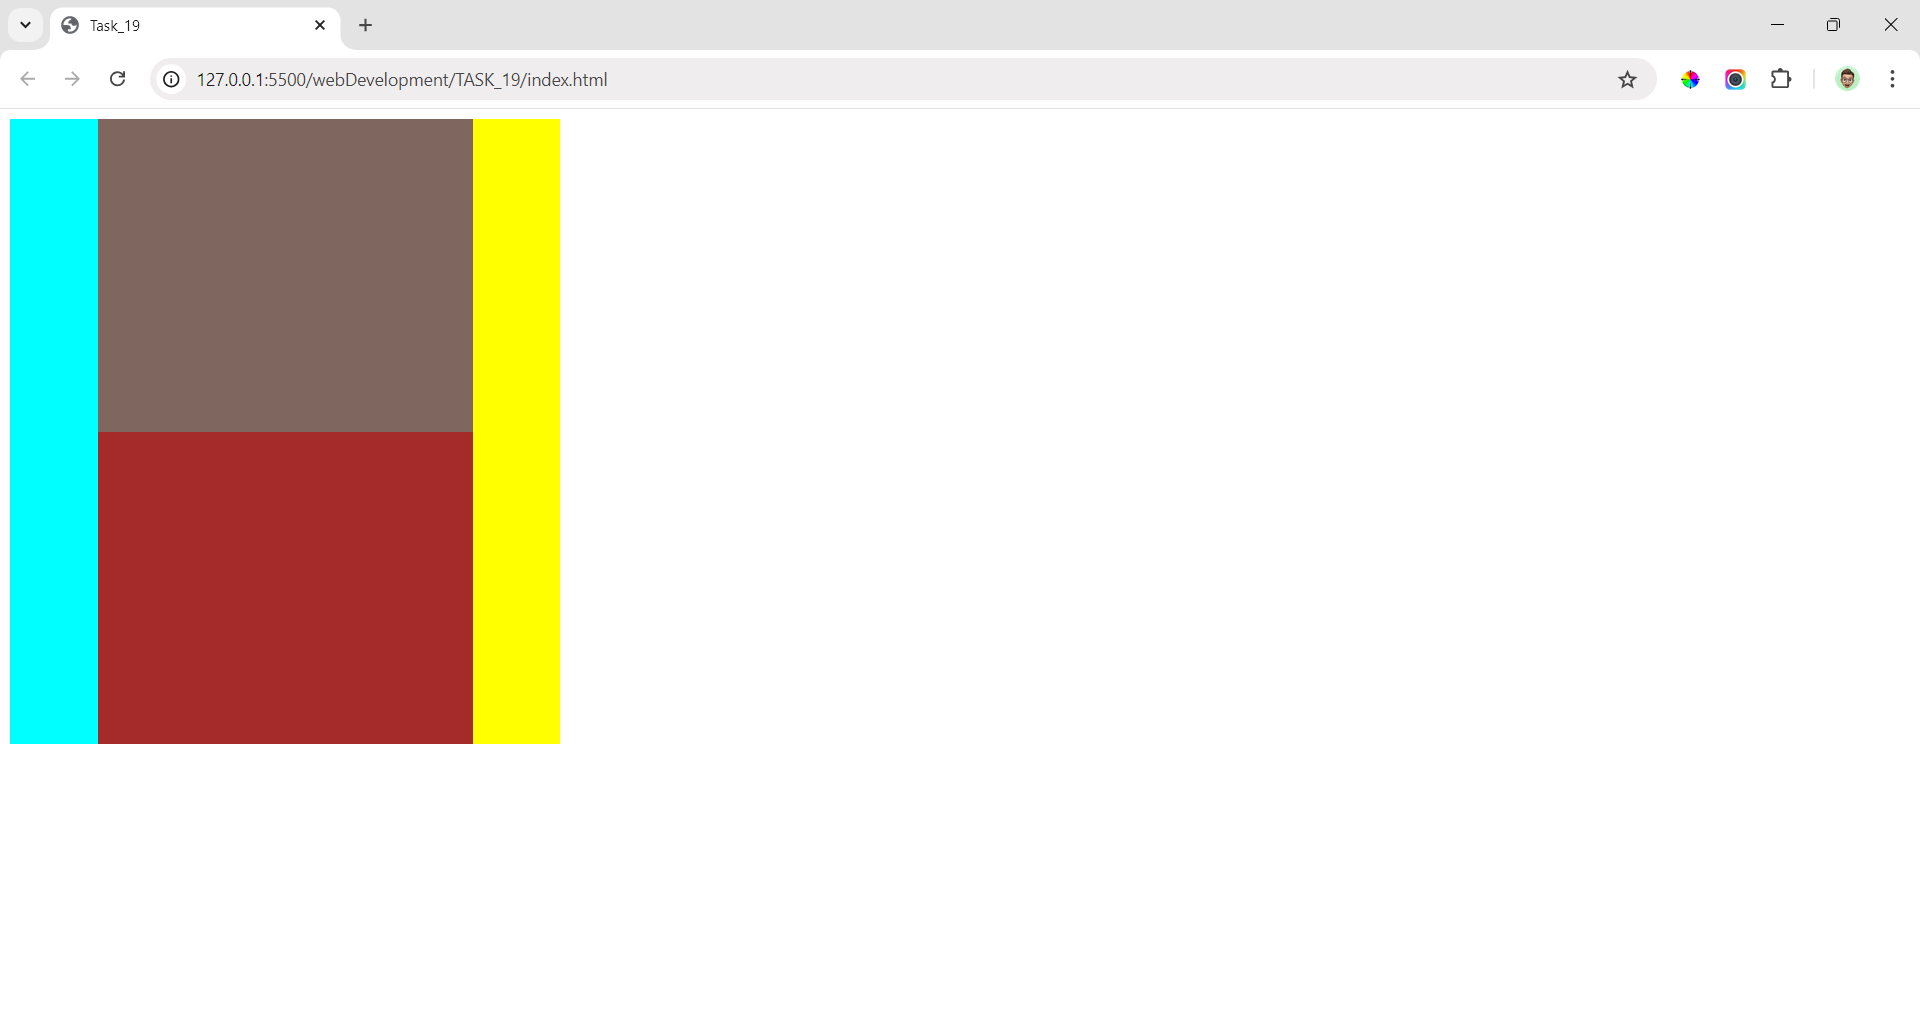
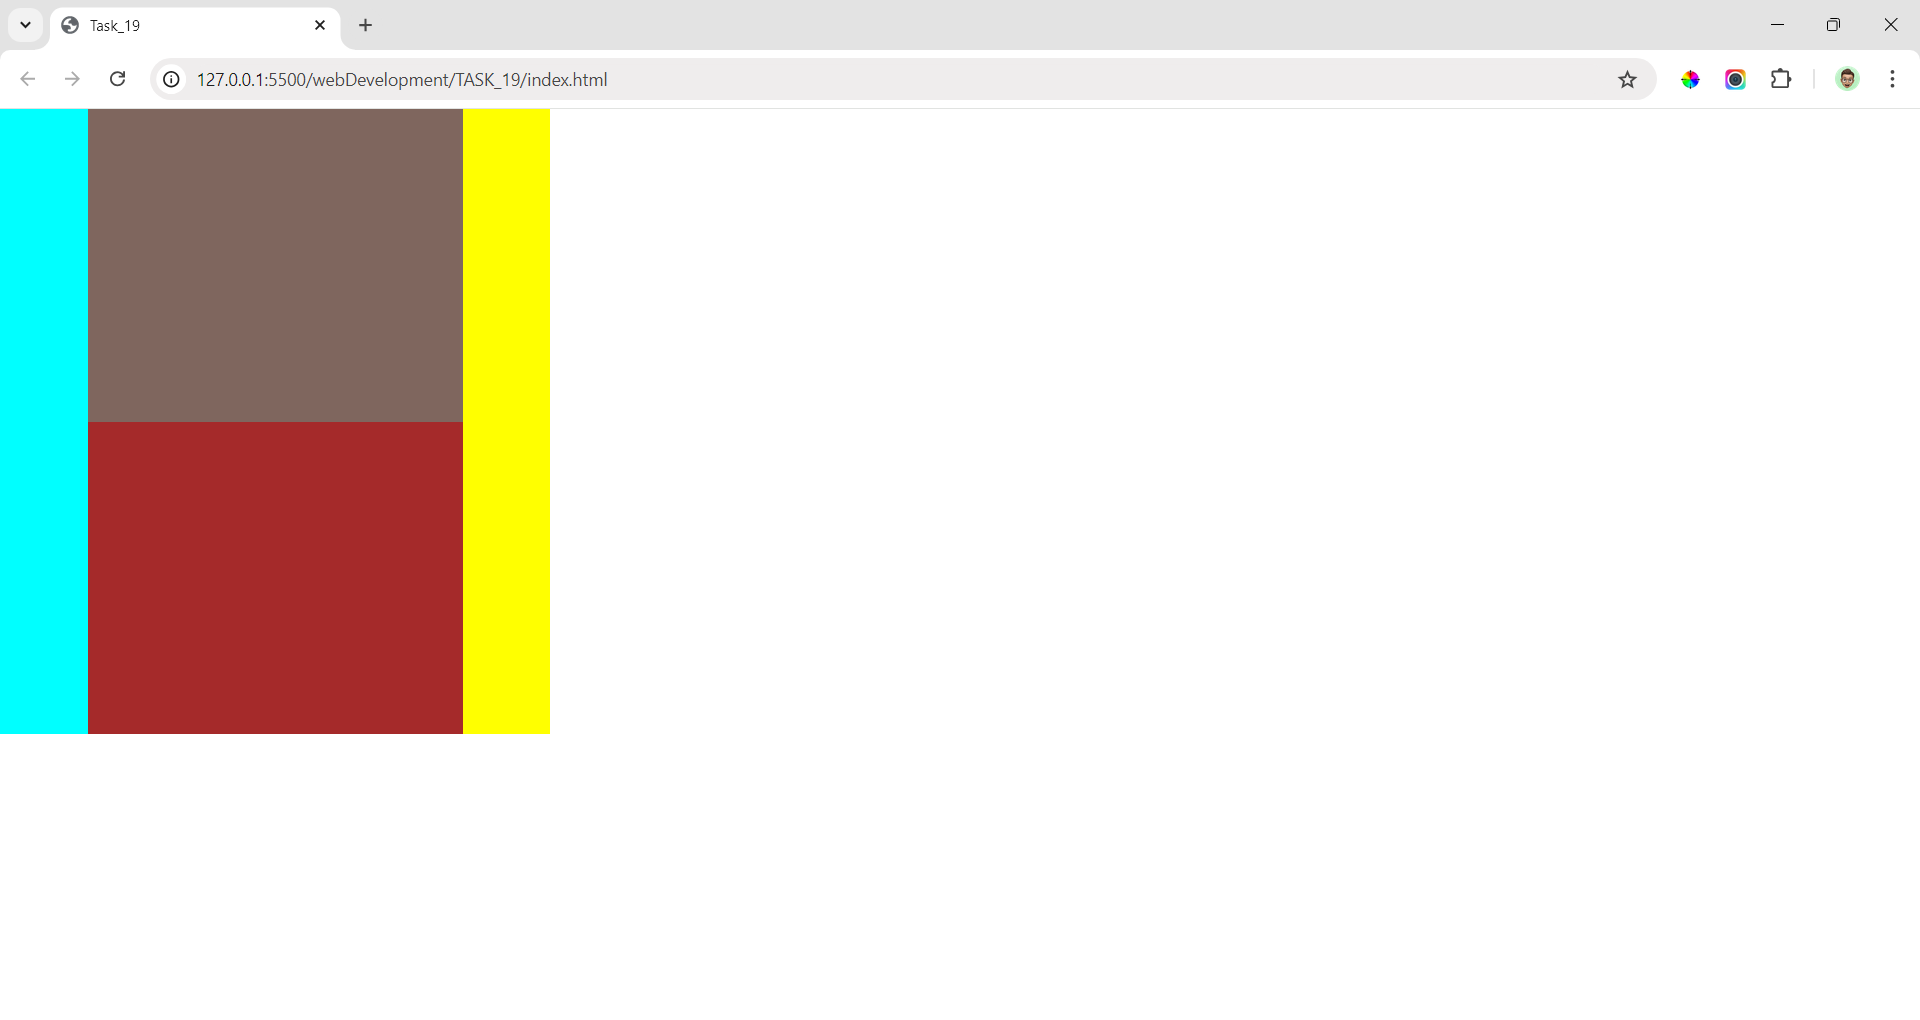
add task_20 and modified task_19

Changed region(s): [[0.0, 0.0912, 0.3125, 0.7294]]

diff --git a/webDevelopment/TASK_20/index.html b/webDevelopment/TASK_20/index.html
@@ -1,0 +1,61 @@
+<!DOCTYPE html>
+<html lang="en">
+<head>
+    <meta charset="UTF-8">
+    <meta name="viewport" content="width=device-width, initial-scale=1.0">
+    <title>Task_20</title>
+    <style>
+        * {
+            margin: 0;
+            padding: 0;
+        }
+
+        .container1 {
+           display: flex;
+        }
+
+        .container2 {
+            display: flex;
+        }
+
+        .cell1 {
+            background-color: #05BB05;
+            width: 300px;
+            height: 300px;
+        }
+
+        .cell2 {
+            background-color: brown;
+            width: 300px;
+            height: 300px;
+        }
+
+        .cell3 {
+            background-color: blue;
+            width: 300px;
+            height: 300px;
+            
+        }
+
+        .cell4 {
+            background-color: red;
+            width: 300px;
+            height: 300px;
+            
+        }
+    </style>
+</head>
+<body>
+    <div class="container">
+        <div class="container1">
+            <div class="cell1"></div>
+            <div class="cell2"></div>
+        </div>
+
+        <div class="container2">
+            <div class="cell3"></div>
+            <div class="cell4"></div>
+        </div>
+    </div>
+</body>
+</html>

diff --git a/webDevelopment/TASK_19/index.html b/webDevelopment/TASK_19/index.html
@@ -5,6 +5,11 @@
     <meta name="viewport" content="width=device-width, initial-scale=1.0">
     <title>Task_19</title>
     <style>
+        * {
+            margin: 0;
+            padding: 0;
+        }
+
         .container {
             display: flex;
             

diff --git a/webDevelopment/TASK_14/index.html b/webDevelopment/TASK_14/index.html
@@ -11,7 +11,7 @@
 
         .cell1 {
             height: 325px;
-            background-color: #05BB05; 
+            background-color: #05BB05;
         }
 
         .cell2 {
